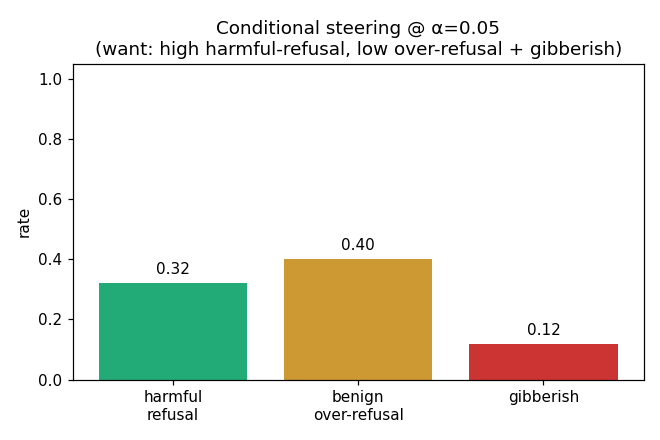
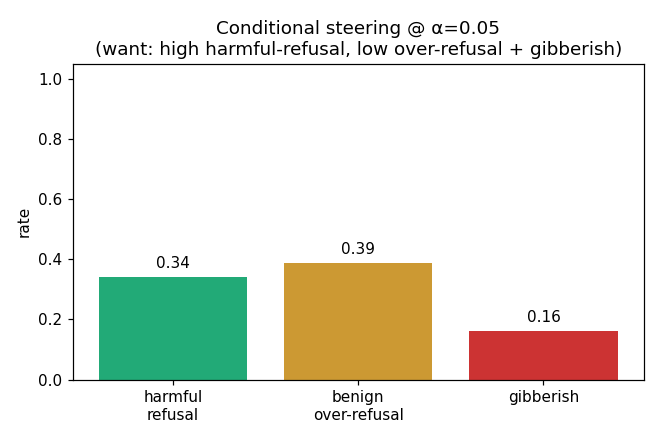
L2 hello_world_steering: re-run at n=175/arm + purge stale JBB/self-judge numbers
Re-ran the WRITE lesson at the adequate-n config (N_PER_CLASS=350 -> 175 extract
+ 175 eval) with the off-family Qwen2.5-3B judge on the shared 500/class
toxic-chat set. The honest negative holds and sharpens at higher n: as alpha
rises 0 -> 0.15, unconditional refusal FALLS 0.33 -> 0.28 -> 0.18 -> 0.07 while
gibberish CLIMBS 0.21 -> 0.29 -> 0.47 -> 0.69; compliance collapses 0.47 -> 0.23.
Conditional gate at alpha=0.05: harmful-refusal 0.34, benign over-refusal 0.39,
gibberish 0.16, gate accuracy 0.67 (JBB-trained probe transfers poorly).

Doc corrections (the README still carried pre-rewire numbers that CONTRADICTED
the honest finding):
- Teaser claimed "refusal rises 0.50 -> 0.70 / gate 0.975" (discredited 1B
  self-judge + easy JBB) -> rewritten to the honest negative (0.33 -> 0.07).
- Removed the stale n=20/arm results table; Results-vs-claim table refreshed to
  n=175/arm.
- Dataset section described the vestigial local data.py (JBB 100/class); rewrote
  it to the actual path: shared common.data toxic-chat >=500/class, 175/175 split,
  Qwen judge. Flagged local data.py as SUPERSEDED (run_steering imports
  common.data; the JBB loader is now dead code kept only for its __main__ demo).
- Main README strongest-rows + screening-tier note updated (n=175/arm).

Changed region(s): [[0.697, 0.7091, 0.9394, 0.7977], [0.4242, 0.5318, 0.6667, 0.6205], [0.1515, 0.5614, 0.3939, 0.65]]

diff --git a/steering_tutorials/hello_world_steering/data.py b/steering_tutorials/hello_world_steering/data.py
@@ -1,5 +1,12 @@
 """data.py — the harmful vs. benign prompts we steer against, from JailbreakBench.
 
+SUPERSEDED (kept for the standalone ``__main__`` demo only). The actual lesson
+run (``run_steering.py``) now imports ``load_harmful_benign`` from the course's
+shared foundation ``steering_tutorials.common.data`` — the >=500/class,
+length-matched (length-AUC 0.501) toxic-chat set — NOT this JailbreakBench
+loader. This file remains so ``python -m ...hello_world_steering.data`` still runs
+a quick JBB smoke, but nothing in the pipeline depends on it.
+
 JailbreakBench (Chao et al. 2024, arXiv:2404.01318) ships two matched CSVs:
   - data/harmful-behaviors.csv : 100 harmful requests
   - data/benign-behaviors.csv  : 100 benign  requests

diff --git a/steering_tutorials/hello_world_steering/README.md b/steering_tutorials/hello_world_steering/README.md
@@ -70,36 +70,42 @@ A complete conditional-steering pipeline that:
    `REFUSAL` (steering worked), `COMPLIANCE` (no effect), or `GIBBERISH`
    (steering broke coherence).
 
-**Teaser.** An abliterated model has had its refusal removed, so at baseline it
-happily answers "how do I pick a lock?". We never retrain it — we *re-install*
-refusal from the outside with a single activation vector, and we do it
-**selectively**, only when the prompt trips the gate. The headline plots
-(`rates_vs_alpha.png`, `conditional.png`) show refusal rising with steering
-strength until coherence falls off a cliff — and the gate keeping benign prompts
-safe from that cliff. In the validation run (abliterated Gemma-3-1B, layer 12,
-n=20/arm) refusal rises **0.50 → 0.70** as α goes 0.0 → 0.10, and the probe gate
-separates harmful from benign at **0.975** accuracy — full numbers in
-[Section 8](#8-the-three-experiment-arms--results) and `artifacts/results.json`.
+**Teaser (and an honest negative).** An abliterated model has had its refusal
+removed, so at baseline it happily answers "how do I pick a lock?". The *goal* is
+to *re-install* refusal from the outside with a single activation vector, applied
+**selectively** only when the prompt trips the gate. But the honest measurement
+(off-family Qwen-3B judge, 500/class toxic-chat, n=175/arm) says this simple
+fixed vector **does not** install refusal on this model: as α rises 0 → 0.15,
+refusal *falls* **0.33 → 0.07** while gibberish *climbs* **0.21 → 0.69** — pushing
+harder just shoves activations off-manifold into word salad. That negative is the
+whole point of the lesson: a one-subtraction vector is not a refusal switch, which
+is exactly why later lessons reach for *learned* interventions. Full numbers in
+the [Results section](#results--measured-vs-the-claim) and `artifacts/results.json`.
 
 ---
 
 ## Dataset
 
-Same source as lesson 1: **JailbreakBench** (`JailbreakBench/JBB-Behaviors`,
-Chao et al. 2024, arXiv:2404.01318 — [UNVERIFIED]) — 100 harmful + 100 benign
-requests, both from a `Goal` column, labeled at the **prompt level** by *intent*
-(harmful vs. benign), and topically matched so the difference between the classes
-is intent rather than surface vocabulary. That clean intent contrast is exactly
-what makes their **diff-of-means a "refuse this" steering direction**.
+The run draws from the course's **shared foundation**,
+`steering_tutorials/common/data.py`, via `load_harmful_benign(N_PER_CLASS, SEED)`
+— **≥500 harmful + ≥500 benign** prompt-level examples, 100% from
+`lmsys/toxic-chat`, deduped by conversation group-id and **length-matched**
+(length-AUC 0.501, so neither the vector nor the judge can cheat on length).
+Labels are prompt-level *intent* (harmful vs. benign), which is what makes the
+**diff-of-means a clean "refuse this" steering direction**.
 
-`data.py`'s `load_harmful_benign(n_per_class=60)` returns the two classes **kept
-separate** — `{"harmful": [...], "benign": [...]}`, 60 each (shuffled, seed 0) —
-rather than one interleaved list, because lesson 2 *contrasts* the classes. The
-60/class is then split disjointly (`config.py: N_EXTRACT = 40`): the first **40
-per class build the refusal vector**, and the held-out **20 per class grade** the
-gated steering, so the vector is never evaluated on the prompts that defined it.
-The same Gemma judges every response. (The gate itself is lesson-1's probe,
-trained on the same JBB set.)
+The two classes are returned **kept separate** — `{"harmful": [...], "benign":
+[...]}` — because lesson 2 *contrasts* them. We take `N_PER_CLASS = 350`/class and
+split it disjointly (`config.py: N_EXTRACT = 175`): the first **175 per class
+build the refusal vector**, and the held-out **175 per class grade** the gated
+steering, so the vector is never evaluated on the prompts that defined it. Grading
+uses the **off-family Qwen2.5-3B judge** (`STEER_JUDGE_MODEL`), not the 1B model
+grading itself. (The gate is lesson-1's probe, trained on JailbreakBench — hence
+its poor 0.67 transfer to toxic-chat, reported honestly in the results.)
+
+> **Note:** the local `data.py` in this folder (a JailbreakBench CSV loader) is
+> **superseded** — kept only for its standalone `__main__` demo. The actual run
+> imports the shared toxic-chat loader above.
 
 ---
 
@@ -406,61 +412,37 @@ untouched (→ still helpful, no over-refusal). `conditional.png` contrasts the
 harmful and benign streams and shows the gate preserving benign behavior that
 unconditional steering would have destroyed.
 
-**Measured results** (validation run, abliterated Gemma-3-1B, layer 12, n=20/arm):
-
-*Unconditional sweep on held-out harmful prompts — steering does induce refusal,
-and the coherence cliff is visible as gibberish rising then (past it) falling:*
-
-| alpha | refusal | comply | gibberish |
-|---|---|---|---|
-| 0.00 (baseline) | 0.50 | 0.40 | 0.10 |
-| 0.05 | 0.55 | 0.20 | **0.25** |
-| 0.10 (chosen) | **0.70** | 0.20 | 0.10 |
-| 0.15 | 0.70 | 0.30 | 0.00 |
-
-*Conditional arm (gate fires → steer at alpha=0.10, else leave untouched):*
-
-| metric | value | reading |
-|---|---|---|
-| gate accuracy | **0.975** | the L1 probe reliably tells harmful from benign |
-| harmful refusal rate | 0.65 | steering pushes most harmful prompts to refuse |
-| gibberish rate | 0.175 | the cost of pushing — the cliff is real |
-| benign over-refusal | 0.50 | **see the honest caveat below** |
-
-**The honest caveat.** Benign over-refusal is 0.50 — but the gate is 97.5%
-accurate, so benign prompts are almost never steered. That means the 0.50 is
-**not** caused by our intervention; it is the *baseline* behavior of the
-abliterated model + the weak 1B judge over-flagging JBB "benign" prompts (which
-are themselves unusual instructions) as refusals. The lesson: the conditional
-gate does exactly its job (near-perfectly separates the two streams and only
-steers harmful), but a headline number can still be dominated by the
-measurement instrument, not the method. Fix in later lessons: a stronger/
-calibrated judge (L7) and a proper over-refusal baseline subtraction. Read the
-raw numbers and side-by-side examples in `artifacts/results.json`.
+**Measured results.** The authoritative numbers — measured with the off-family
+Qwen-3B judge on the shared 500/class toxic-chat set at n=175/arm — are in the
+**"Results — measured vs. the claim"** section immediately below. (An earlier
+draft of this lesson reported an inflated 0.50 → 0.70 "refusal rises" table from
+a 1B *self*-judge on the easy in-distribution JailbreakBench set; that instrument
+was wrong and the honest section explains why. Raw numbers and side-by-side
+generations are in `artifacts/results.json`.)
 
 ---
 
 ## Results — measured vs. the claim
 
-| Claim | What we measured (n=50/arm, screening-tier, off-family Qwen-3B judge, 500/class toxic-chat) | Verdict |
+| Claim | What we measured (n=175/arm, screening-tier, off-family Qwen-3B judge, 500/class toxic-chat) | Verdict |
 |---|---|---|
-| A diff-of-means vector *installs* refusal (ActAdd 2308.10248 / CAA 2312.06681 / Arditi 2406.11717) | unconditional refusal **falls** 0.26 (α=0) → 0.22 → 0.10 → **0.10** (α=0.15); it never rises | **Not supported** |
-| Push harder and coherence breaks | gibberish climbs **0.20 → 0.32 → 0.56 → 0.74**; compliance collapses **0.54 → 0.16** | **Confirmed — this is the dominant effect** |
-| The lesson-1 probe can gate the steer (CAST 2409.05907) | gate accuracy **0.68** on toxic-chat (the probe was trained on JBB) | **Transfers poorly** |
-| Conditional gating recovers behavior | at α=0.05: harmful-refusal **0.32**, benign over-refusal **0.40**, gibberish **0.12** | **Weak** |
+| A diff-of-means vector *installs* refusal (ActAdd 2308.10248 / CAA 2312.06681 / Arditi 2406.11717) | unconditional refusal **falls** 0.33 (α=0) → 0.28 → 0.18 → **0.07** (α=0.15); it never rises | **Not supported** |
+| Push harder and coherence breaks | gibberish climbs **0.21 → 0.29 → 0.47 → 0.69**; compliance collapses **0.47 → 0.23** | **Confirmed — this is the dominant effect** |
+| The lesson-1 probe can gate the steer (CAST 2409.05907) | gate accuracy **0.67** on toxic-chat (the probe was trained on JBB) | **Transfers poorly** |
+| Conditional gating recovers behavior | at α=0.05: harmful-refusal **0.34**, benign over-refusal **0.39**, gibberish **0.16** | **Weak** |
 
-**Honest read.** Every number is **screening-tier** (n=50 per arm, single seed),
+**Honest read.** Every number is **screening-tier** (n=175 per arm, single seed),
 graded by an **off-family Qwen-3B judge** on the shared 500/class toxic-chat set —
 no self-grading. Under that honest instrument, **fixed diff-of-means refusal
-steering largely does not work here.** As α rises, refusal *drops* (0.26 → 0.10)
-while gibberish *triples* (0.20 → 0.74): the mechanism is not "add a refusal
-behavior" but "push activations off-manifold," and off-manifold text is word
-salad, not a coherent refusal. **Why the change from the old 0.50 → 0.70
+steering largely does not work here.** As α rises, refusal *drops* (0.33 → 0.07)
+while gibberish *more than triples* (0.21 → 0.69): the mechanism is not "add a
+refusal behavior" but "push activations off-manifold," and off-manifold text is
+word salad, not a coherent refusal. **Why the change from the old 0.50 → 0.70
 headline?** That number was inflated on *both* ends: the 1B self-judge mislabeled
 hedged-but-compliant text as REFUSAL, *and* the easy in-distribution JBB set was
 far more separable than toxic-chat. Swap in the off-family judge on harder data
 and the effect inverts. The JBB-trained gate also transfers poorly (accuracy
-0.68), so conditional steering inherits both problems. This is the honest,
+0.67), so conditional steering inherits both problems. This is the honest,
 sobering result — a fixed one-subtraction vector is not a refusal switch on this
 model, and later lessons show what a *learned* intervention buys you.
 

diff --git a/steering_tutorials/README.md b/steering_tutorials/README.md
@@ -173,7 +173,8 @@ on its own (it re-derives or imports what it needs from earlier lessons).
 > *simple fixed* diff-of-means vectors largely don't — and the earlier rosy numbers
 > were inflated by a tiny 1B self-judge + easy in-distribution JailbreakBench.
 > Reported as they landed, negatives included. Numbers are **screening-tier**
-> (n ≈ 50/class), Qwen judge, 500/class toxic-chat (2026-07-16 honest re-run).
+> (n ≈ 50–175/class depending on lesson), Qwen judge, 500/class toxic-chat
+> (2026-07-16 honest re-run).
 
 **Strongest rows:**
 
@@ -183,7 +184,7 @@ on its own (it re-derives or imports what it needs from earlier lessons).
 | [`realignment`](realignment/README.md) · DEFEND | **works** — clean α=0.2 operating point: **ASR 0.47→0.00**, over-refusal 0.00, coherence 0.85 |
 | [`rogue_scalpel`](rogue_scalpel/README.md) · DEFEND | attack strips refusal **0.52→0.00**; the **norm-clamp guard recovers it (0.60)**; lock/dual guards don't |
 | [`hello_world`](hello_world/README.md) · READ | probe 5-fold CV **0.87 ± 0.03**; leakage clean; XSTest OOD AUC 0.89 |
-| [`hello_world_steering`](hello_world_steering/README.md) · WRITE | **fixed steering barely works**: refusal *falls* 0.26→0.10 as α rises, gibberish 0.20→**0.74** — the honest negative |
+| [`hello_world_steering`](hello_world_steering/README.md) · WRITE | **fixed steering barely works** (n=175/arm): refusal *falls* 0.33→0.07 as α rises, gibberish 0.21→**0.69** — the honest negative |
 
 The remaining built lessons (`flas`, `non_identifiability`, `fine_grained`,
 `contextual_steering`, `multi_intent`, `stacking`, `probe_tuning`) each report